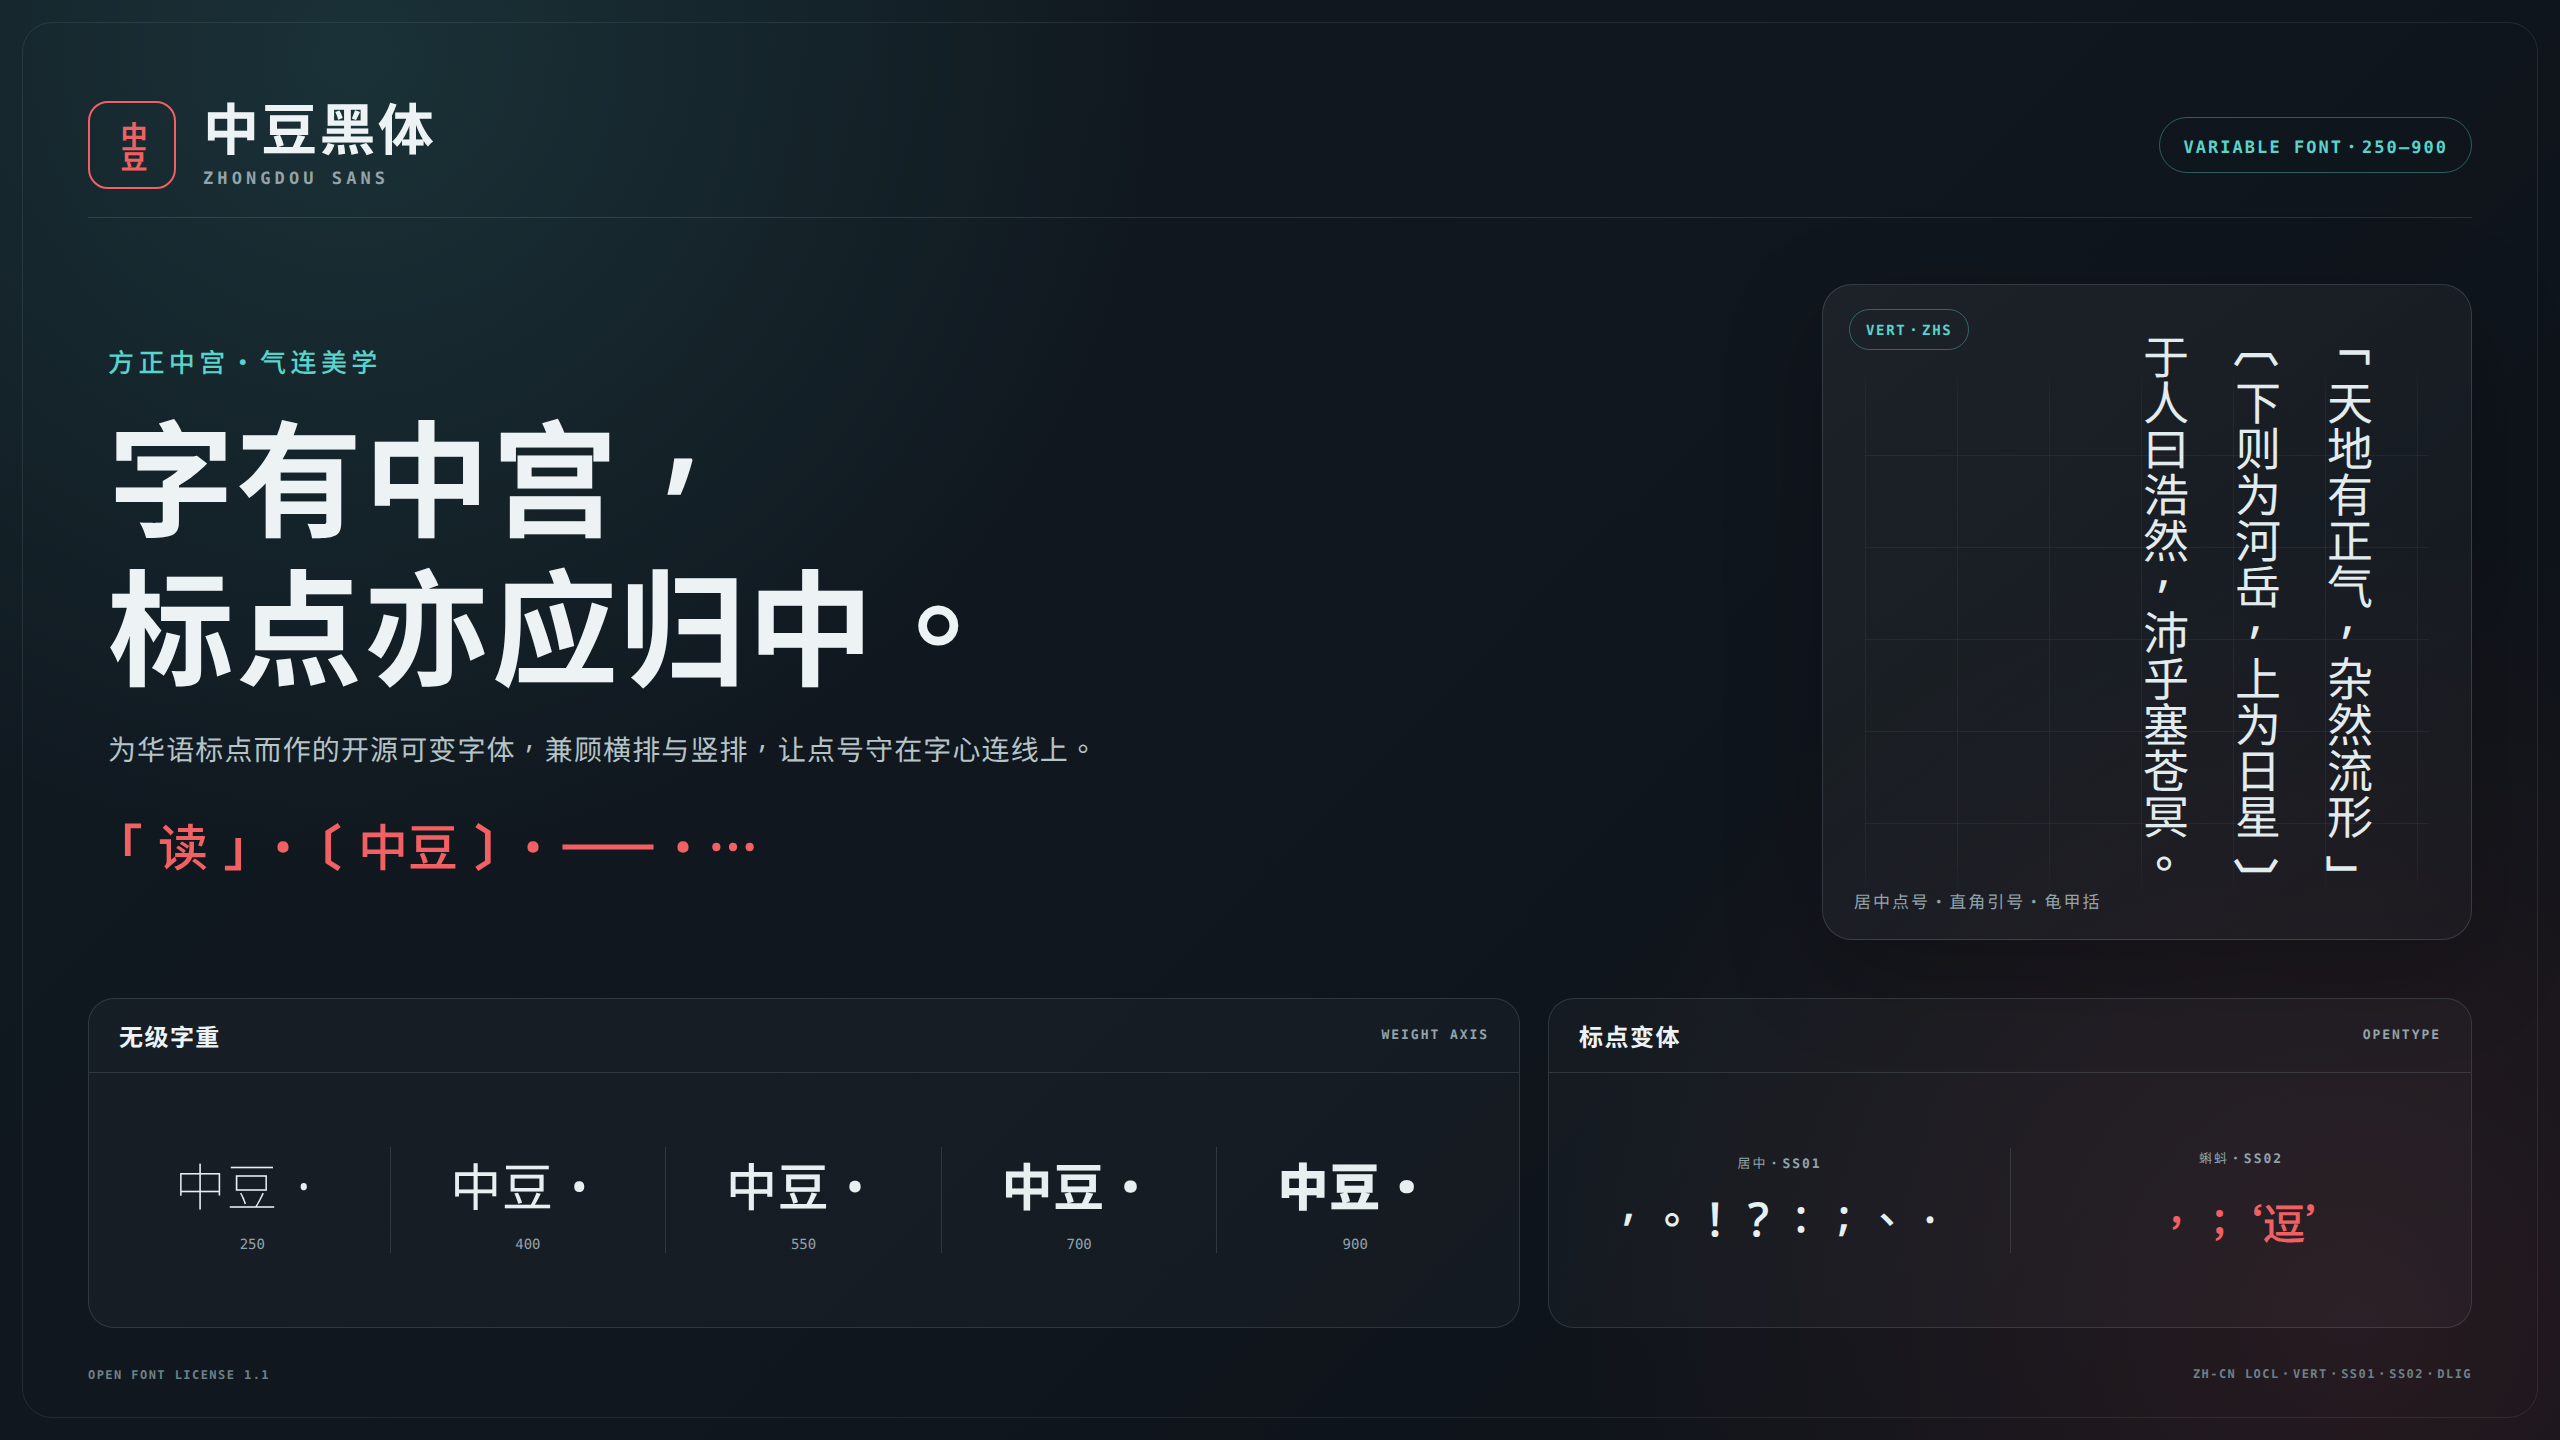
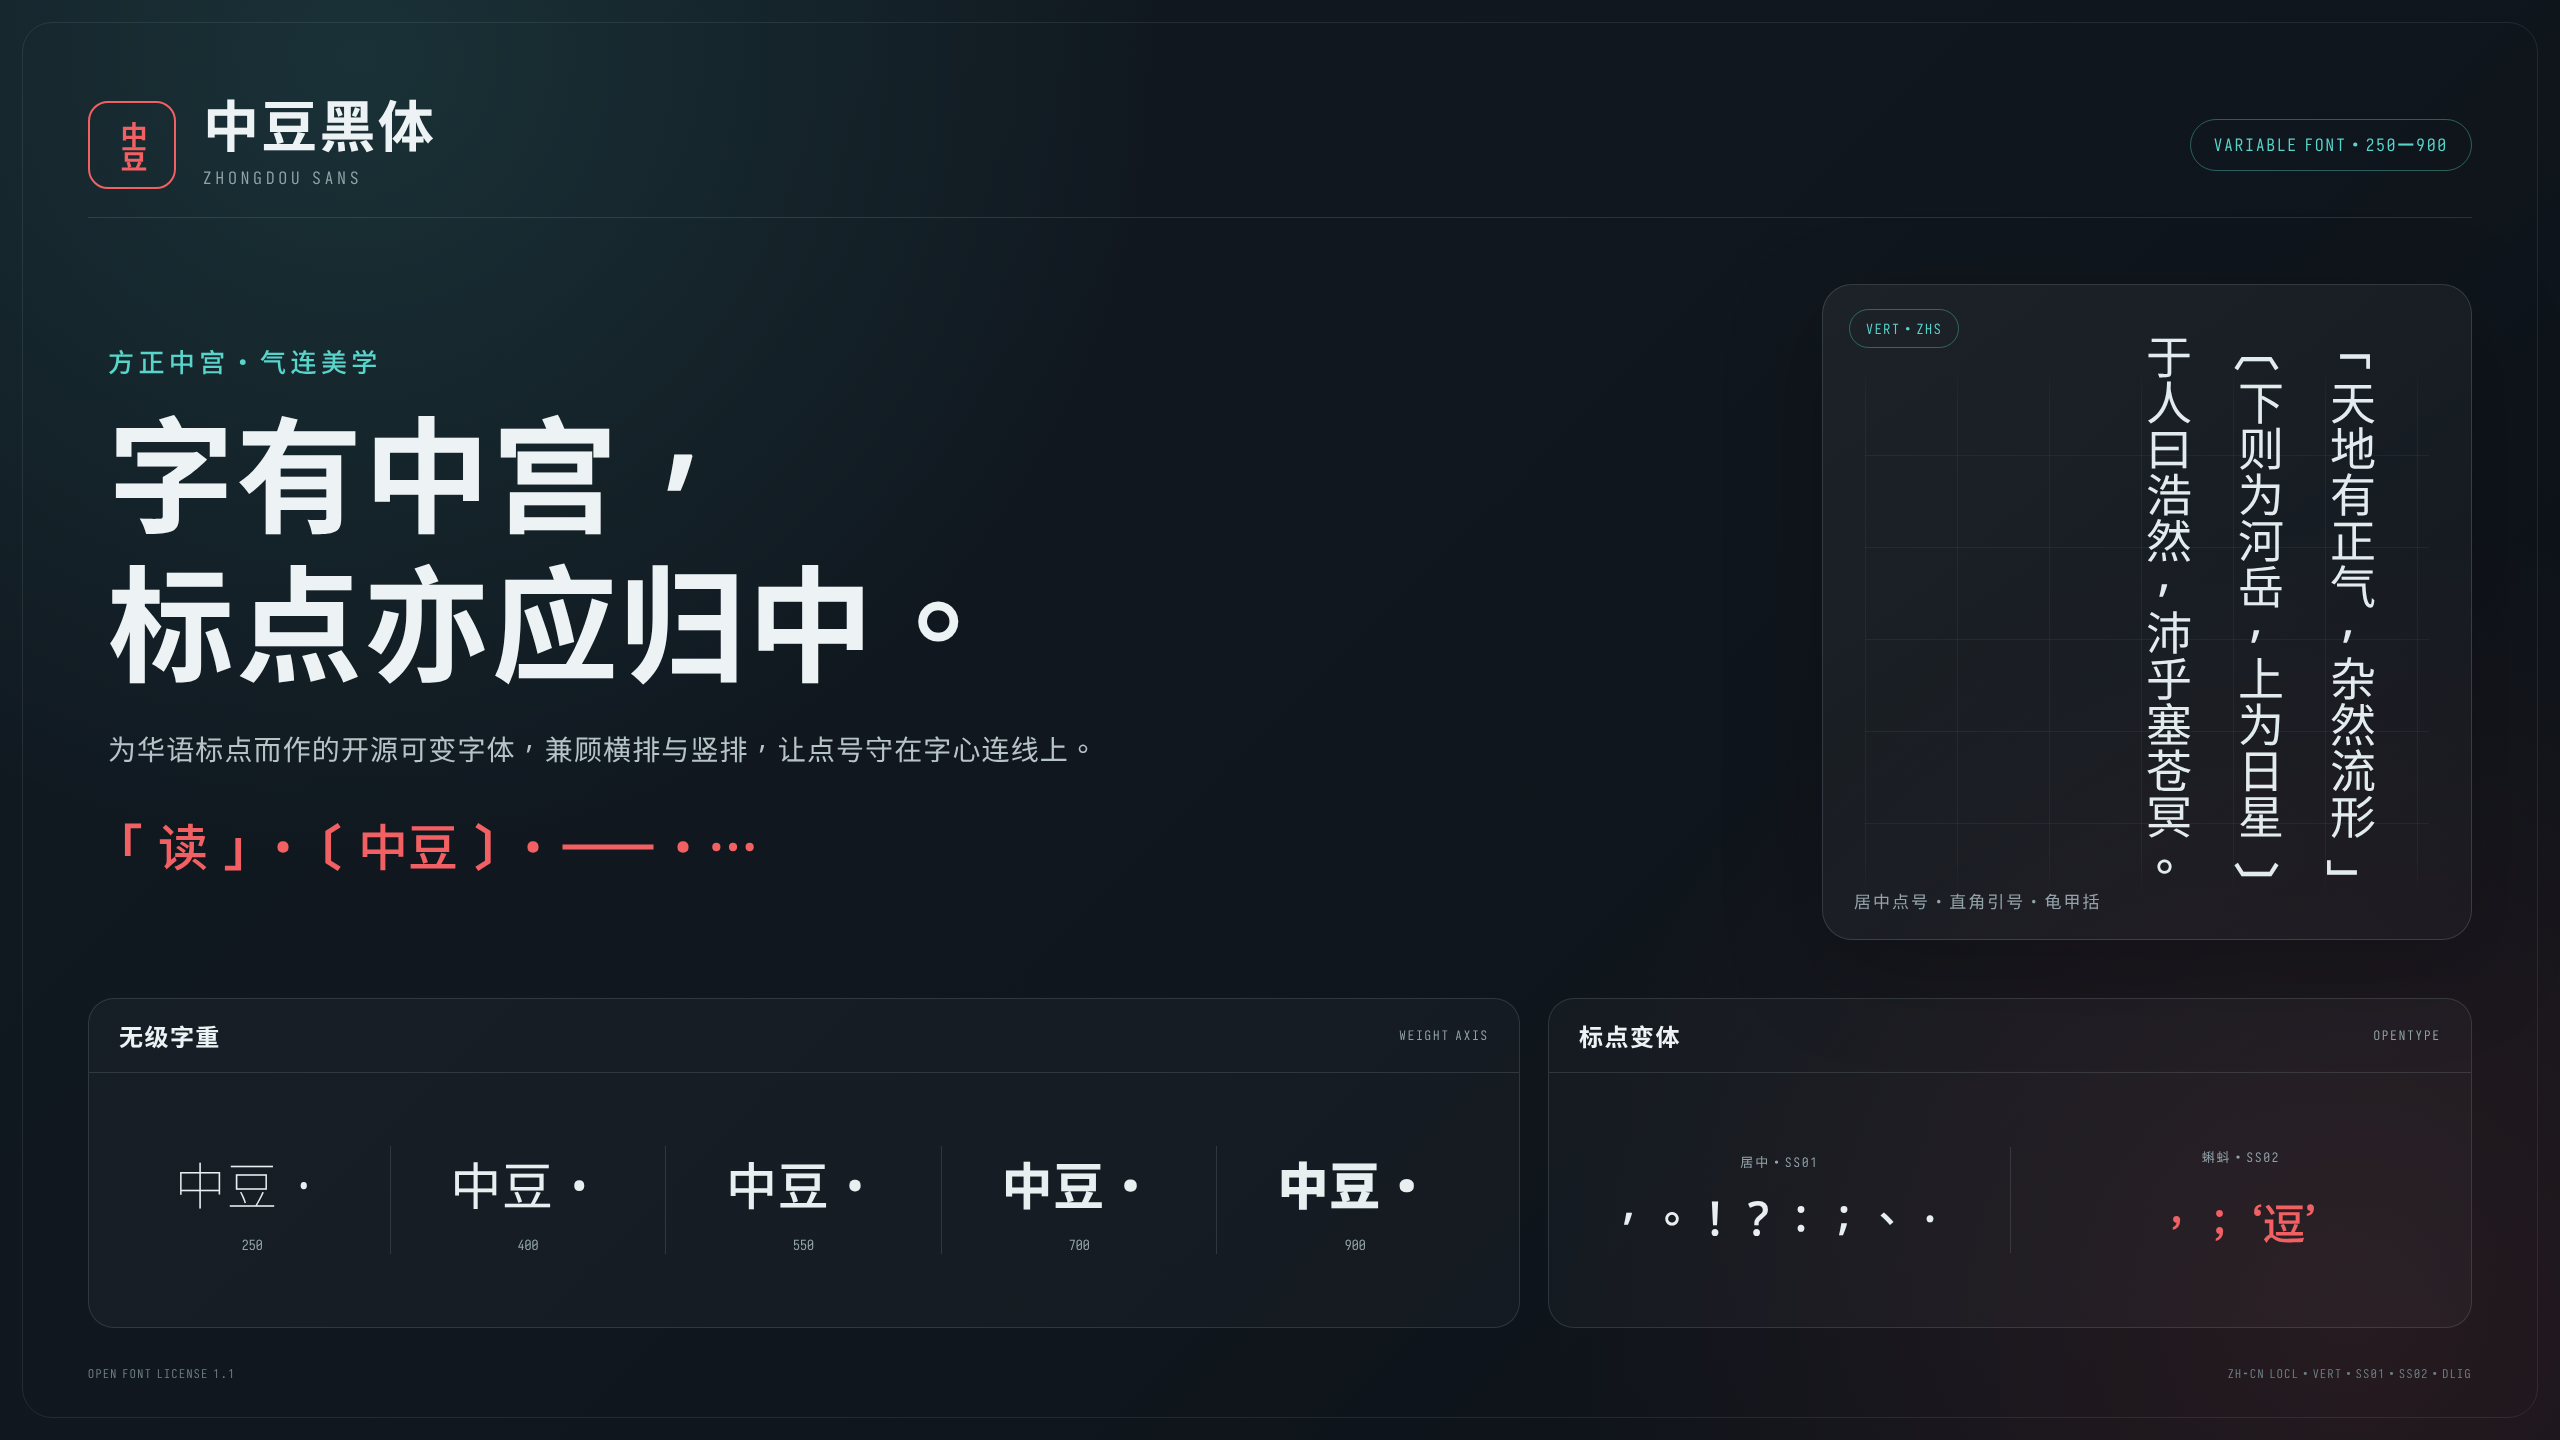
Align fallback font metrics

diff --git a/tools/build_font.py b/tools/build_font.py
@@ -71,10 +71,17 @@ def add_midline_ellipsis(font: TTFont) -> None:
         raise ValueError("the input font has no Unicode cmap containing U+2026")
 
 
-def reduce_line_gaps(font: TTFont) -> None:
-    """Replace upstream's accidental one-em horizontal line gaps."""
-    font["OS/2"].sTypoLineGap = 200
-    font["hhea"].lineGap = 200
+def harmonize_horizontal_metrics(font: TTFont) -> None:
+    """Match Sarasa's line metrics so fallback runs share one baseline."""
+    os2 = font["OS/2"]
+    os2.sTypoAscender = 965
+    os2.sTypoDescender = -285
+    os2.sTypoLineGap = 0
+
+    hhea = font["hhea"]
+    hhea.ascent = 965
+    hhea.descent = -215
+    hhea.lineGap = 70
 
 
 def disable_positioning_features(font: TTFont) -> None:
@@ -375,7 +382,7 @@ def main() -> None:
     font = TTFont(args.input, recalcTimestamp=False)
     use_half_width_quotes_by_default(font)
     add_midline_ellipsis(font)
-    reduce_line_gaps(font)
+    harmonize_horizontal_metrics(font)
     disable_positioning_features(font)
     use_zh_tw_locl_for_zh_cn(font)
     center_zh_cn_vertical_punctuation(font)

diff --git a/README.md b/README.md
@@ -59,7 +59,7 @@
 * 陆规（`ZHS`）在 `locl` 中复用台规（`ZHT`）的居中标点查找，使陆规文本默认使用居中标点；`vert` 则在默认语言与陆规文本中保留这些标点的居中形式，同时不改变其他地区的竖排规则。
 * 对居中点号作光学校正，并将龟甲括与直角引号的墨迹在全部字重中移到全角字身的横向中心；由其构成的闭括号和竖排字形会同步归中，字身宽度保持不变。
 * 保留 `halt`、`vhal`、`kern`、`vkrn` 功能标签以兼容应用程序，但清空其查找列表，因此字体不会自动压缩或挤移横排、竖排标点。
-* 已修正[行高问题](https://github.com/Buernia/Zhudou-Sans/issues/7)。
+* 已修正[行高问题](https://github.com/Buernia/Zhudou-Sans/issues/7)，并使水平排版度量与更纱黑体兼容，避免 Pango/GTK 在字体回退时错开标点与正文的基线。
 
 此外如上文所述，增加了一些标点符号。
 
